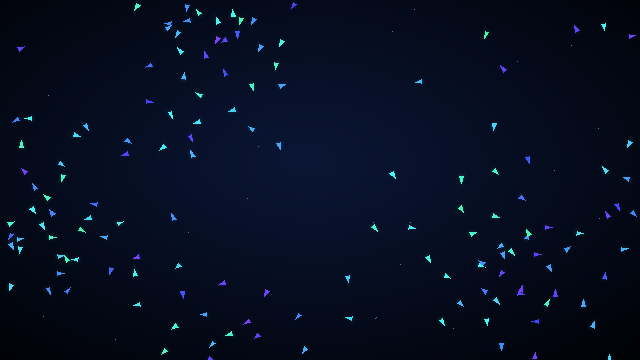
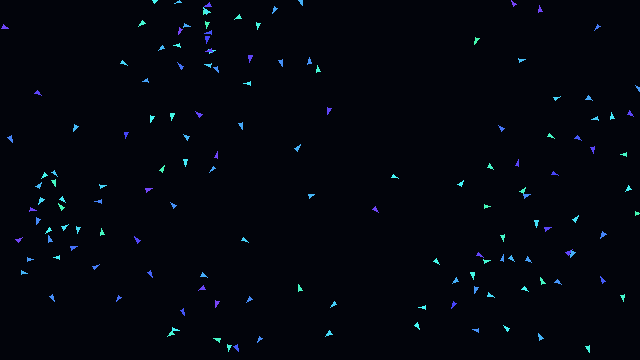
Render boids flat and increase default speed

diff --git a/src/main.js b/src/main.js
@@ -5,16 +5,13 @@ const errorBox = document.querySelector("#error");
 
 const defaults = Object.freeze({
   count: 128,
-  speed: 1,
-  trails: 56,
+  speed: 1.15,
   palette: "aurora",
-  glow: true,
   interaction: "orbit",
 });
 
 const config = { ...defaults };
 const pointer = { x: 0, y: 0, active: false, mode: config.interaction, lastMove: 0 };
-const ripples = [];
 const palettes = Object.freeze({
   aurora: { hue: 154, spread: 104, saturation: 92, light: 62 },
   ice: { hue: 188, spread: 72, saturation: 82, light: 66 },
@@ -75,14 +72,8 @@ function applyProperty(name, value) {
       config.speed = clamp(parseNumber(value, config.speed), 0.25, 2.5);
       flock?.setSpeed(config.speed);
       break;
-    case "trails":
-      config.trails = clamp(Math.round(parseNumber(value, config.trails)), 0, 100);
-      break;
     case "palette":
       config.palette = normalizePalette(value);
-      break;
-    case "glow":
-      config.glow = value === true || value === 1 || value === "1" || String(value).toLowerCase() === "true";
       break;
     case "interaction":
       config.interaction = normalizeInteraction(value);
@@ -106,12 +97,7 @@ function resize() {
   const rect = canvas.getBoundingClientRect();
   width = Math.max(1, rect.width);
   height = Math.max(1, rect.height);
-  const pixelBudget = 3_400_000;
-  const ratio = Math.min(
-    window.devicePixelRatio || 1,
-    1.5,
-    Math.sqrt(pixelBudget / (width * height)),
-  );
+  const ratio = Math.max(1, window.devicePixelRatio || 1);
   const renderWidth = Math.max(1, Math.round(width * ratio));
   const renderHeight = Math.max(1, Math.round(height * ratio));
   if (canvas.width !== renderWidth || canvas.height !== renderHeight) {
@@ -121,35 +107,8 @@ function resize() {
 
   renderContext.setTransform(ratio, 0, 0, ratio, 0, 0);
   flock?.resize(width, height);
-  paintBackground(renderContext);
-}
-
-function paintBackground(context) {
-  const gradient = context.createRadialGradient(
-    width * 0.48,
-    height * 0.44,
-    0,
-    width * 0.48,
-    height * 0.44,
-    Math.max(width, height) * 0.72,
-  );
-  gradient.addColorStop(0, "#0a1830");
-  gradient.addColorStop(0.48, "#050c1d");
-  gradient.addColorStop(1, "#02040c");
-  context.fillStyle = gradient;
-  context.fillRect(0, 0, width, height);
-
-  const random = createRandom(0x51a7f00d);
-  const stars = Math.min(180, Math.floor((width * height) / 18000));
-  for (let index = 0; index < stars; index += 1) {
-    const x = random() * width;
-    const y = random() * height;
-    const radius = 0.35 + random() * 0.8;
-    context.beginPath();
-    context.arc(x, y, radius, 0, Math.PI * 2);
-    context.fillStyle = `rgba(137, 190, 255, ${0.035 + random() * 0.1})`;
-    context.fill();
-  }
+  renderContext.fillStyle = "#02040b";
+  renderContext.fillRect(0, 0, width, height);
 }
 
 function trianglePath(context, boid, length) {
@@ -177,36 +136,16 @@ function boidColor(boid) {
   return `hsla(${hue.toFixed(1)}, ${palette.saturation}%, ${light.toFixed(1)}%, 0.92)`;
 }
 
-function render(context, deltaSeconds) {
-  const trail = clamp(config.trails, 0, 100) / 100;
-  const fade = trail >= 0.995 ? 1 : 0.08 + (1 - trail) ** 2 * 0.9;
+function render(context) {
   context.globalAlpha = 1;
-  context.fillStyle = `rgba(3, 7, 18, ${fade})`;
+  context.fillStyle = "#02040b";
   context.fillRect(0, 0, width, height);
 
   const size = clamp(Math.min(width, height) / 118, 5.2, 8.8);
-  context.lineJoin = "round";
-  context.shadowBlur = config.glow ? size * 0.9 : 0;
   for (const boid of flock.boids) {
-    const color = boidColor(boid);
-    context.shadowColor = color;
-    context.fillStyle = color;
+    context.fillStyle = boidColor(boid);
     trianglePath(context, boid, size);
     context.fill();
-  }
-  context.shadowBlur = 0;
-
-  for (const ripple of ripples) {
-    ripple.age += deltaSeconds;
-    const progress = clamp(ripple.age / 0.72, 0, 1);
-    context.beginPath();
-    context.arc(ripple.x, ripple.y, 14 + progress * 78, 0, Math.PI * 2);
-    context.strokeStyle = `rgba(118, 224, 255, ${(1 - progress) * 0.42})`;
-    context.lineWidth = 1.2;
-    context.stroke();
-  }
-  for (let index = ripples.length - 1; index >= 0; index -= 1) {
-    if (ripples[index].age >= 0.72) ripples.splice(index, 1);
   }
 }
 
@@ -241,7 +180,7 @@ function frame(now) {
     accumulator -= fixedStep;
     steps += 1;
   }
-  render(renderContext, elapsed);
+  render(renderContext);
   animationFrame = requestAnimationFrame(frame);
 }
 
@@ -257,7 +196,6 @@ function scatter() {
   if (!flock) return;
   if (pointer.active) flock.scatterAt(pointer.x, pointer.y, 280, 430);
   else flock.scatter(245);
-  ripples.push({ x: pointer.x, y: pointer.y, age: 0 });
 }
 
 function installInteractions() {

diff --git a/tools/generate-assets.py b/tools/generate-assets.py
@@ -5,11 +5,13 @@ import math
 import random
 from pathlib import Path
 
-from PIL import Image, ImageDraw, ImageFilter
+from PIL import Image, ImageDraw
 
 ROOT = Path(__file__).resolve().parent.parent
 ASSETS = ROOT / "assets"
 TAU = math.tau
+MIN_SPEED = 53
+MAX_SPEED = 110
 
 
 class Point:
@@ -26,7 +28,7 @@ def make_flock(width: int, height: int, count: int, seed: int) -> list[Point]:
     flock = []
     for _ in range(count):
         angle = rng.random() * TAU
-        speed = rng.uniform(46, 96)
+        speed = rng.uniform(MIN_SPEED, MAX_SPEED)
         flock.append(
             Point(
                 rng.random() * width,
@@ -117,13 +119,20 @@ def step(flock: list[Point], width: int, height: int, delta_seconds: float) -> N
         acceleration_x = 0.0
         acceleration_y = 0.0
         if neighbors:
-            sx, sy = steer(separation_x, separation_y, boid.vx, boid.vy, 96, 310)
+            sx, sy = steer(separation_x, separation_y, boid.vx, boid.vy, MAX_SPEED, 310)
             ax, ay = cap(
                 (alignment_x / neighbors - boid.vx) * 1.05,
                 (alignment_y / neighbors - boid.vy) * 1.05,
                 310,
             )
-            cx, cy = steer(cohesion_x / neighbors, cohesion_y / neighbors, boid.vx, boid.vy, 96, 310)
+            cx, cy = steer(
+                cohesion_x / neighbors,
+                cohesion_y / neighbors,
+                boid.vx,
+                boid.vy,
+                MAX_SPEED,
+                310,
+            )
             acceleration_x += sx * 1.55 + ax + cx * 0.78
             acceleration_y += sy * 1.55 + ay + cy * 0.78
         accelerations.append(cap(acceleration_x, acceleration_y, 558))
@@ -132,55 +141,40 @@ def step(flock: list[Point], width: int, height: int, delta_seconds: float) -> N
         boid.vx += ax * delta_seconds
         boid.vy += ay * delta_seconds
         speed = math.hypot(boid.vx, boid.vy)
-        if speed > 96:
-            boid.vx *= 96 / speed
-            boid.vy *= 96 / speed
-            speed = 96
-        if speed < 46:
+        if speed > MAX_SPEED:
+            boid.vx *= MAX_SPEED / speed
+            boid.vy *= MAX_SPEED / speed
+            speed = MAX_SPEED
+        if speed < MIN_SPEED:
             if speed < 0.000001:
-                boid.vx = math.cos(boid.phase * TAU) * 46
-                boid.vy = math.sin(boid.phase * TAU) * 46
+                boid.vx = math.cos(boid.phase * TAU) * MIN_SPEED
+                boid.vy = math.sin(boid.phase * TAU) * MIN_SPEED
             else:
-                boid.vx *= 46 / speed
-                boid.vy *= 46 / speed
+                boid.vx *= MIN_SPEED / speed
+                boid.vy *= MIN_SPEED / speed
         boid.x = wrap(boid.x + boid.vx * delta_seconds, width)
         boid.y = wrap(boid.y + boid.vy * delta_seconds, height)
 
 
-def background(width: int, height: int, seed: int) -> Image.Image:
-    image = Image.new("RGB", (width, height))
-    pixels = image.load()
-    for y in range(height):
-        vertical = y / max(1, height - 1)
-        for x in range(width):
-            horizontal = x / max(1, width - 1)
-            radial = max(0.0, 1.0 - math.hypot(horizontal - 0.48, vertical - 0.44) / 0.78)
-            edge = abs(horizontal - 0.5) + abs(vertical - 0.5)
-            pixels[x, y] = (
-                round(2 + 8 * radial - 2 * edge),
-                round(4 + 18 * radial - 3 * edge),
-                round(12 + 42 * radial - 8 * edge),
-            )
-    stars = ImageDraw.Draw(image)
-    rng = random.Random(seed)
-    for _ in range(max(20, width * height // 18000)):
-        x = rng.randrange(width)
-        y = rng.randrange(height)
-        value = rng.randint(10, 34)
-        stars.point((x, y), fill=(70 + value, 100 + value, 145 + value))
-    return image
+def background(width: int, height: int) -> Image.Image:
+    return Image.new("RGB", (width, height), (2, 4, 11))
 
 
-def triangle(boid: Point, size: float, scale: float = 1.0) -> list[tuple[float, float]]:
+def triangle(boid: Point, size: float) -> list[tuple[float, float]]:
     angle = math.atan2(boid.vy, boid.vx)
     cosine = math.cos(angle)
     sine = math.sin(angle)
-    length = size * scale
-    half_width = length * 0.48
+    half_width = size * 0.48
     return [
-        (boid.x + cosine * length, boid.y + sine * length),
-        (boid.x - cosine * length * 0.58 - sine * half_width, boid.y - sine * length * 0.58 + cosine * half_width),
-        (boid.x - cosine * length * 0.58 + sine * half_width, boid.y - sine * length * 0.58 - cosine * half_width),
+        (boid.x + cosine * size, boid.y + sine * size),
+        (
+            boid.x - cosine * size * 0.58 - sine * half_width,
+            boid.y - sine * size * 0.58 + cosine * half_width,
+        ),
+        (
+            boid.x - cosine * size * 0.58 + sine * half_width,
+            boid.y - sine * size * 0.58 - cosine * half_width,
+        ),
     ]
 
 
@@ -189,44 +183,34 @@ def color_for(boid: Point) -> tuple[int, int, int, int]:
     saturation = 0.92
     lightness = 0.62
     red, green, blue = colorsys.hls_to_rgb(hue, lightness, saturation)
-    return round(red * 255), round(green * 255), round(blue * 255), 235
+    return round(red * 255), round(green * 255), round(blue * 255), 255
 
 
-def draw_frame(base: Image.Image, flock: list[Point], fade: int | None) -> Image.Image:
-    frame = base.convert("RGBA")
-    if fade is not None:
-        frame = Image.alpha_composite(frame, Image.new("RGBA", frame.size, (3, 7, 18, fade)))
-    glow = Image.new("RGBA", frame.size, (0, 0, 0, 0))
-    glow_draw = ImageDraw.Draw(glow)
+def draw_frame(base: Image.Image, flock: list[Point]) -> Image.Image:
+    frame = base.copy()
     draw = ImageDraw.Draw(frame)
     size = max(4.2, min(frame.size) / 118)
     for boid in flock:
-        color = color_for(boid)
-        glow_color = (color[0], color[1], color[2], 42)
-        glow_draw.polygon(triangle(boid, size, 1.85), fill=glow_color)
-    frame = Image.alpha_composite(frame, glow.filter(ImageFilter.GaussianBlur(max(1.2, size * 0.42))))
-    draw = ImageDraw.Draw(frame)
-    for boid in flock:
         draw.polygon(triangle(boid, size), fill=color_for(boid))
-    return frame.convert("RGB")
+    return frame
 
 
 def write_assets() -> None:
     ASSETS.mkdir(parents=True, exist_ok=True)
-    thumbnail_base = background(640, 360, 0x51A7F00D)
+    thumbnail_base = background(640, 360)
     thumbnail_flock = make_flock(640, 360, 145, 0xB01D5)
     for _ in range(180):
         step(thumbnail_flock, 640, 360, 1 / 60)
-    draw_frame(thumbnail_base, thumbnail_flock, None).save(ASSETS / "thumbnail.png", optimize=True)
+    draw_frame(thumbnail_base, thumbnail_flock).save(ASSETS / "thumbnail.png", optimize=True)
 
     width, height = 320, 180
-    preview_base = background(width, height, 0x51A7F00D)
+    preview_base = background(width, height)
     preview_flock = make_flock(width, height, 72, 0xB01D5)
     for _ in range(120):
         step(preview_flock, width, height, 1 / 60)
     frames = []
     for _ in range(48):
-        frame = draw_frame(preview_base, preview_flock, 70)
+        frame = draw_frame(preview_base, preview_flock)
         frames.append(frame.quantize(colors=128, method=Image.Quantize.MEDIANCUT, dither=Image.Dither.NONE))
         step(preview_flock, width, height, 1 / 30)
     frames[0].save(

diff --git a/README.md b/README.md
@@ -27,17 +27,15 @@ Open <http://127.0.0.1:4173>. The project has no install step or third-party pac
 3. Select this repository folder.
 4. Select **Boids** and apply it to a display.
 
-The root `LivelyInfo.json` and `LivelyProperties.json` provide the thumbnail, preview, playback integration, and controls for flock size, speed, trails, palette, glow, and cursor behavior. Lively can pause the simulation when playback is disabled or the wallpaper is not visible.
+The root `LivelyInfo.json` and `LivelyProperties.json` provide the thumbnail, preview, playback integration, and controls for flock size, speed, palette, and cursor behavior. Rendering is deliberately flat: there are no glows, blur, trails, or click effects. Lively can pause the simulation when playback is disabled or the wallpaper is not visible.
 
 ## Controls in Lively
 
 | Property | Values | Default |
 | --- | --- | --- |
 | Flock size | 20–280 | 128 |
-| Speed | 0.25–2.5× | 1× |
-| Trails | 0–100 | 56 |
+| Speed | 0.25–2.5× | 1.15× |
 | Palette | Aurora, Ice, Ember, Mono | Aurora |
-| Soft glow | On/off | On |
 | Cursor | Orbit, Follow, Avoid, Ignore | Orbit |
 | Scatter flock | Action button | — |
 
